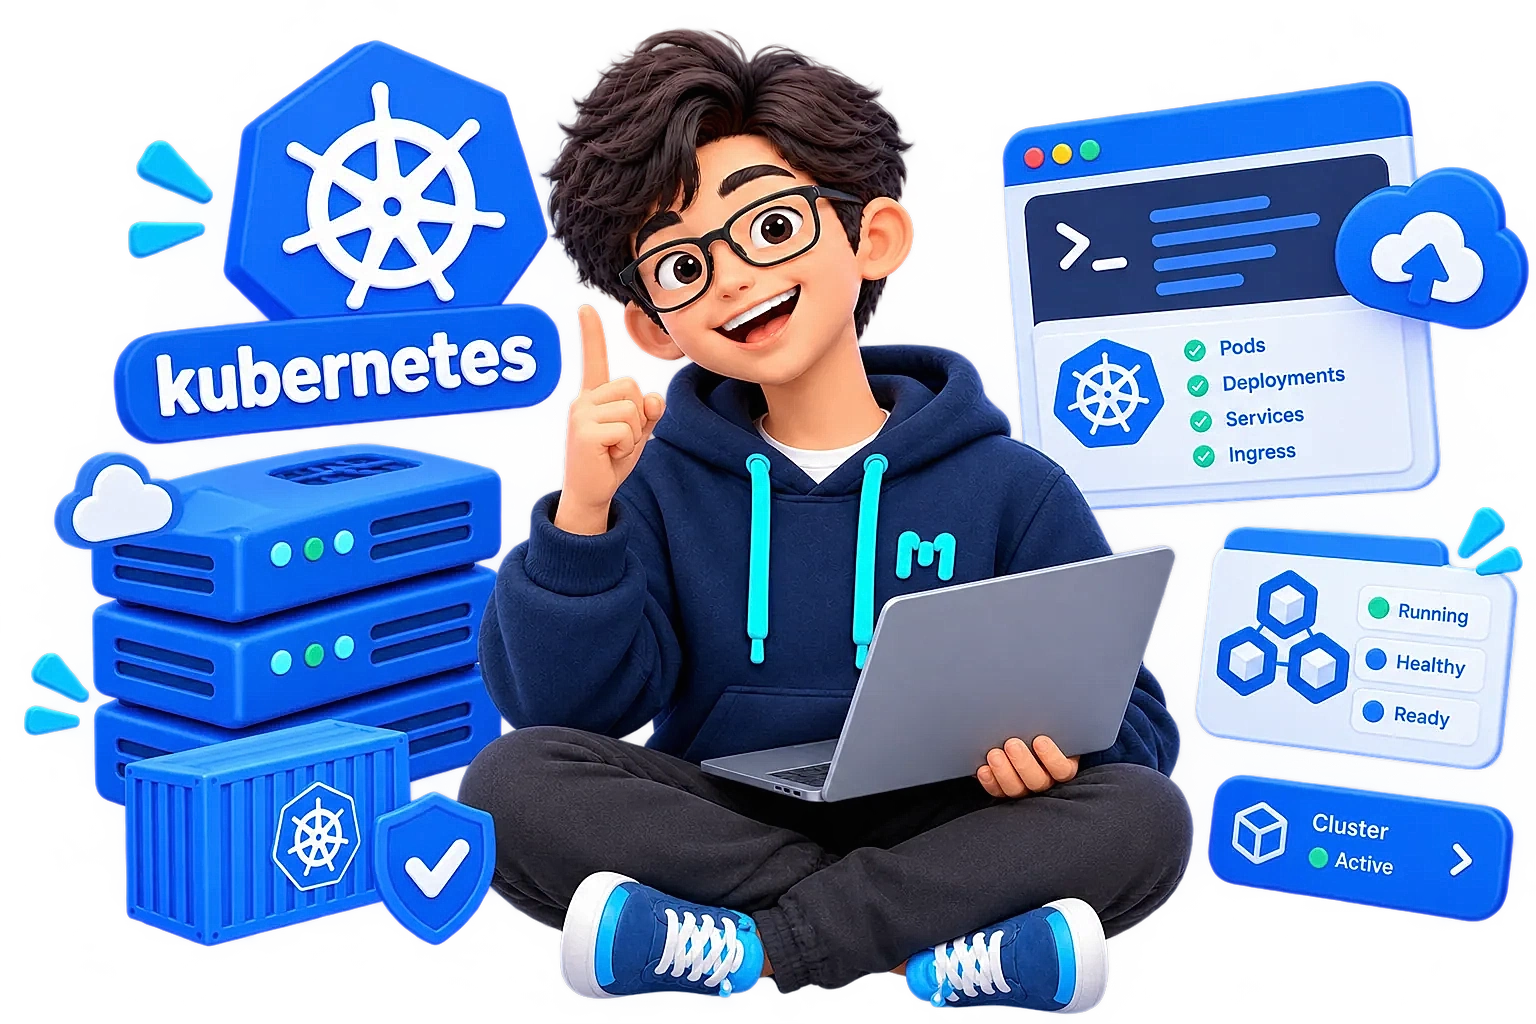
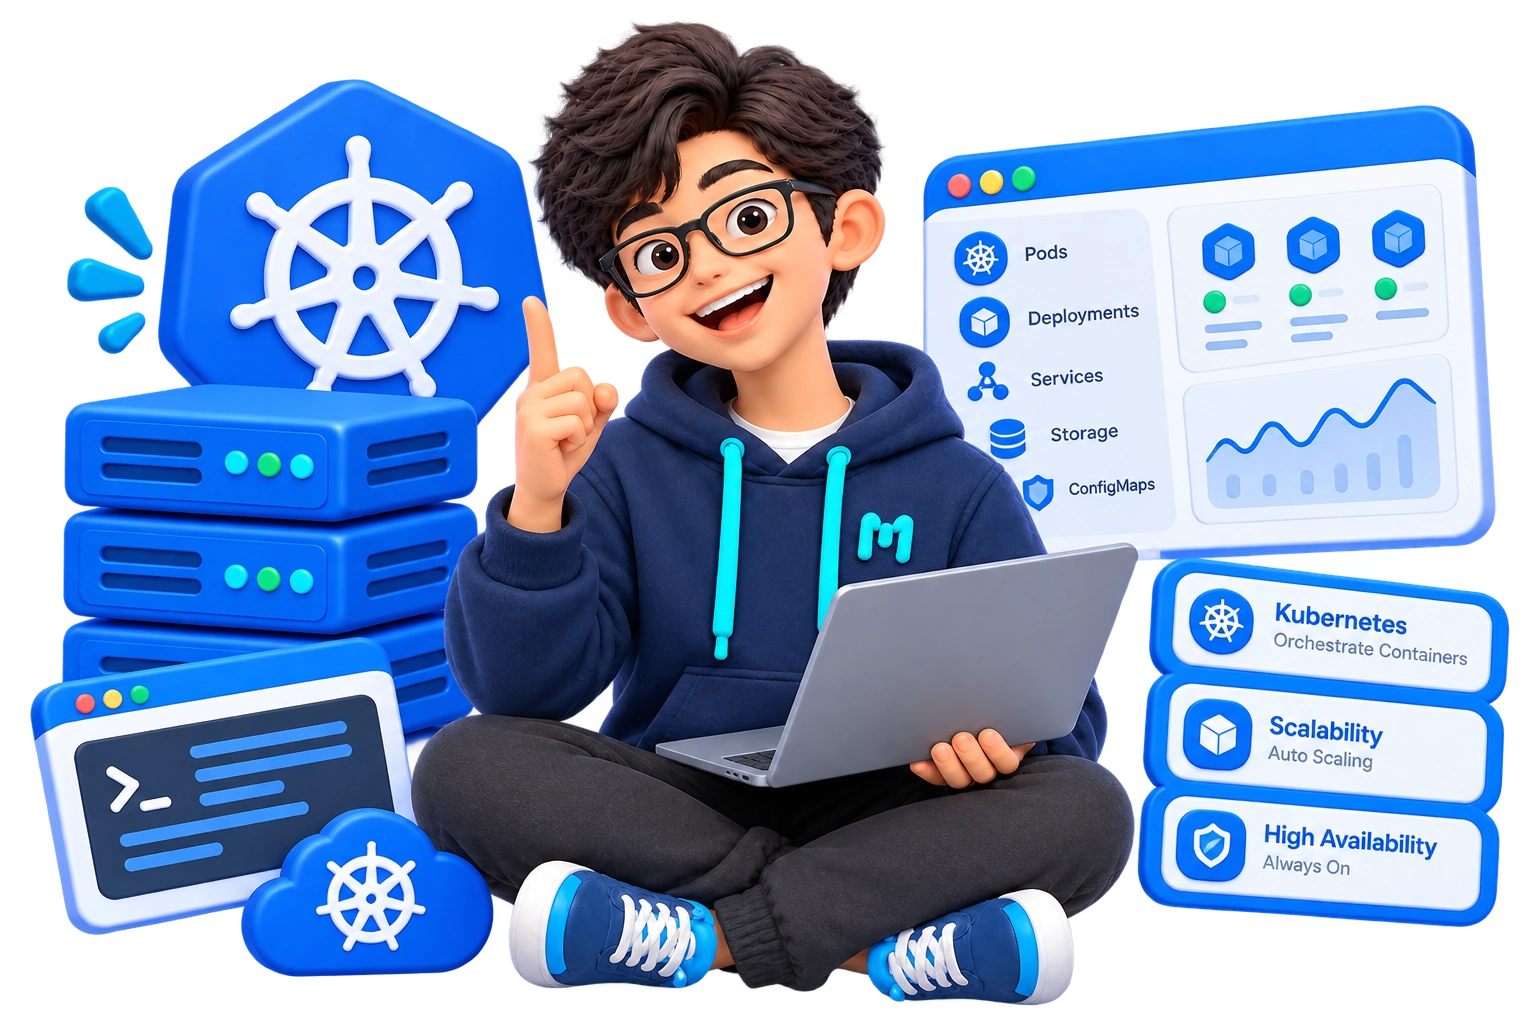
feat(k3s): update hero asset to high-resolution k3s.webp

diff --git a/apps/web/src/app/(public)/k3s/K3sClient.tsx b/apps/web/src/app/(public)/k3s/K3sClient.tsx
@@ -137,7 +137,7 @@ export default function K3sClient({ safePricing, isK3sEnabled }: { safePricing: 
               </div>
             </motion.div>
 
-            {/* Right – Hero Avatar (kubernetes.webp) with 4 Floating Badges */}
+            {/* Right – Hero Avatar (k3s.webp) with 4 Floating Badges */}
             <motion.div
               initial={{ opacity: 0, scale: 0.96 }}
               animate={{ opacity: 1, scale: 1 }}
@@ -216,7 +216,7 @@ export default function K3sClient({ safePricing, isK3sEnabled }: { safePricing: 
                   </div>
                 </div>
 
-                {/* Karakter kubernetes.webp utuh & proporsional sesuai design.md */}
+                {/* Karakter k3s.webp utuh & proporsional sesuai design.md */}
                 <div
                   className="w-full h-full relative z-10 flex items-end justify-center"
                   style={{
@@ -225,7 +225,7 @@ export default function K3sClient({ safePricing, isK3sEnabled }: { safePricing: 
                   }}
                 >
                   <Image
-                    src="/kubernetes.webp"
+                    src="/k3s.webp"
                     alt="Masdika – Managed Kubernetes Clusters"
                     width={1536}
                     height={1024}
